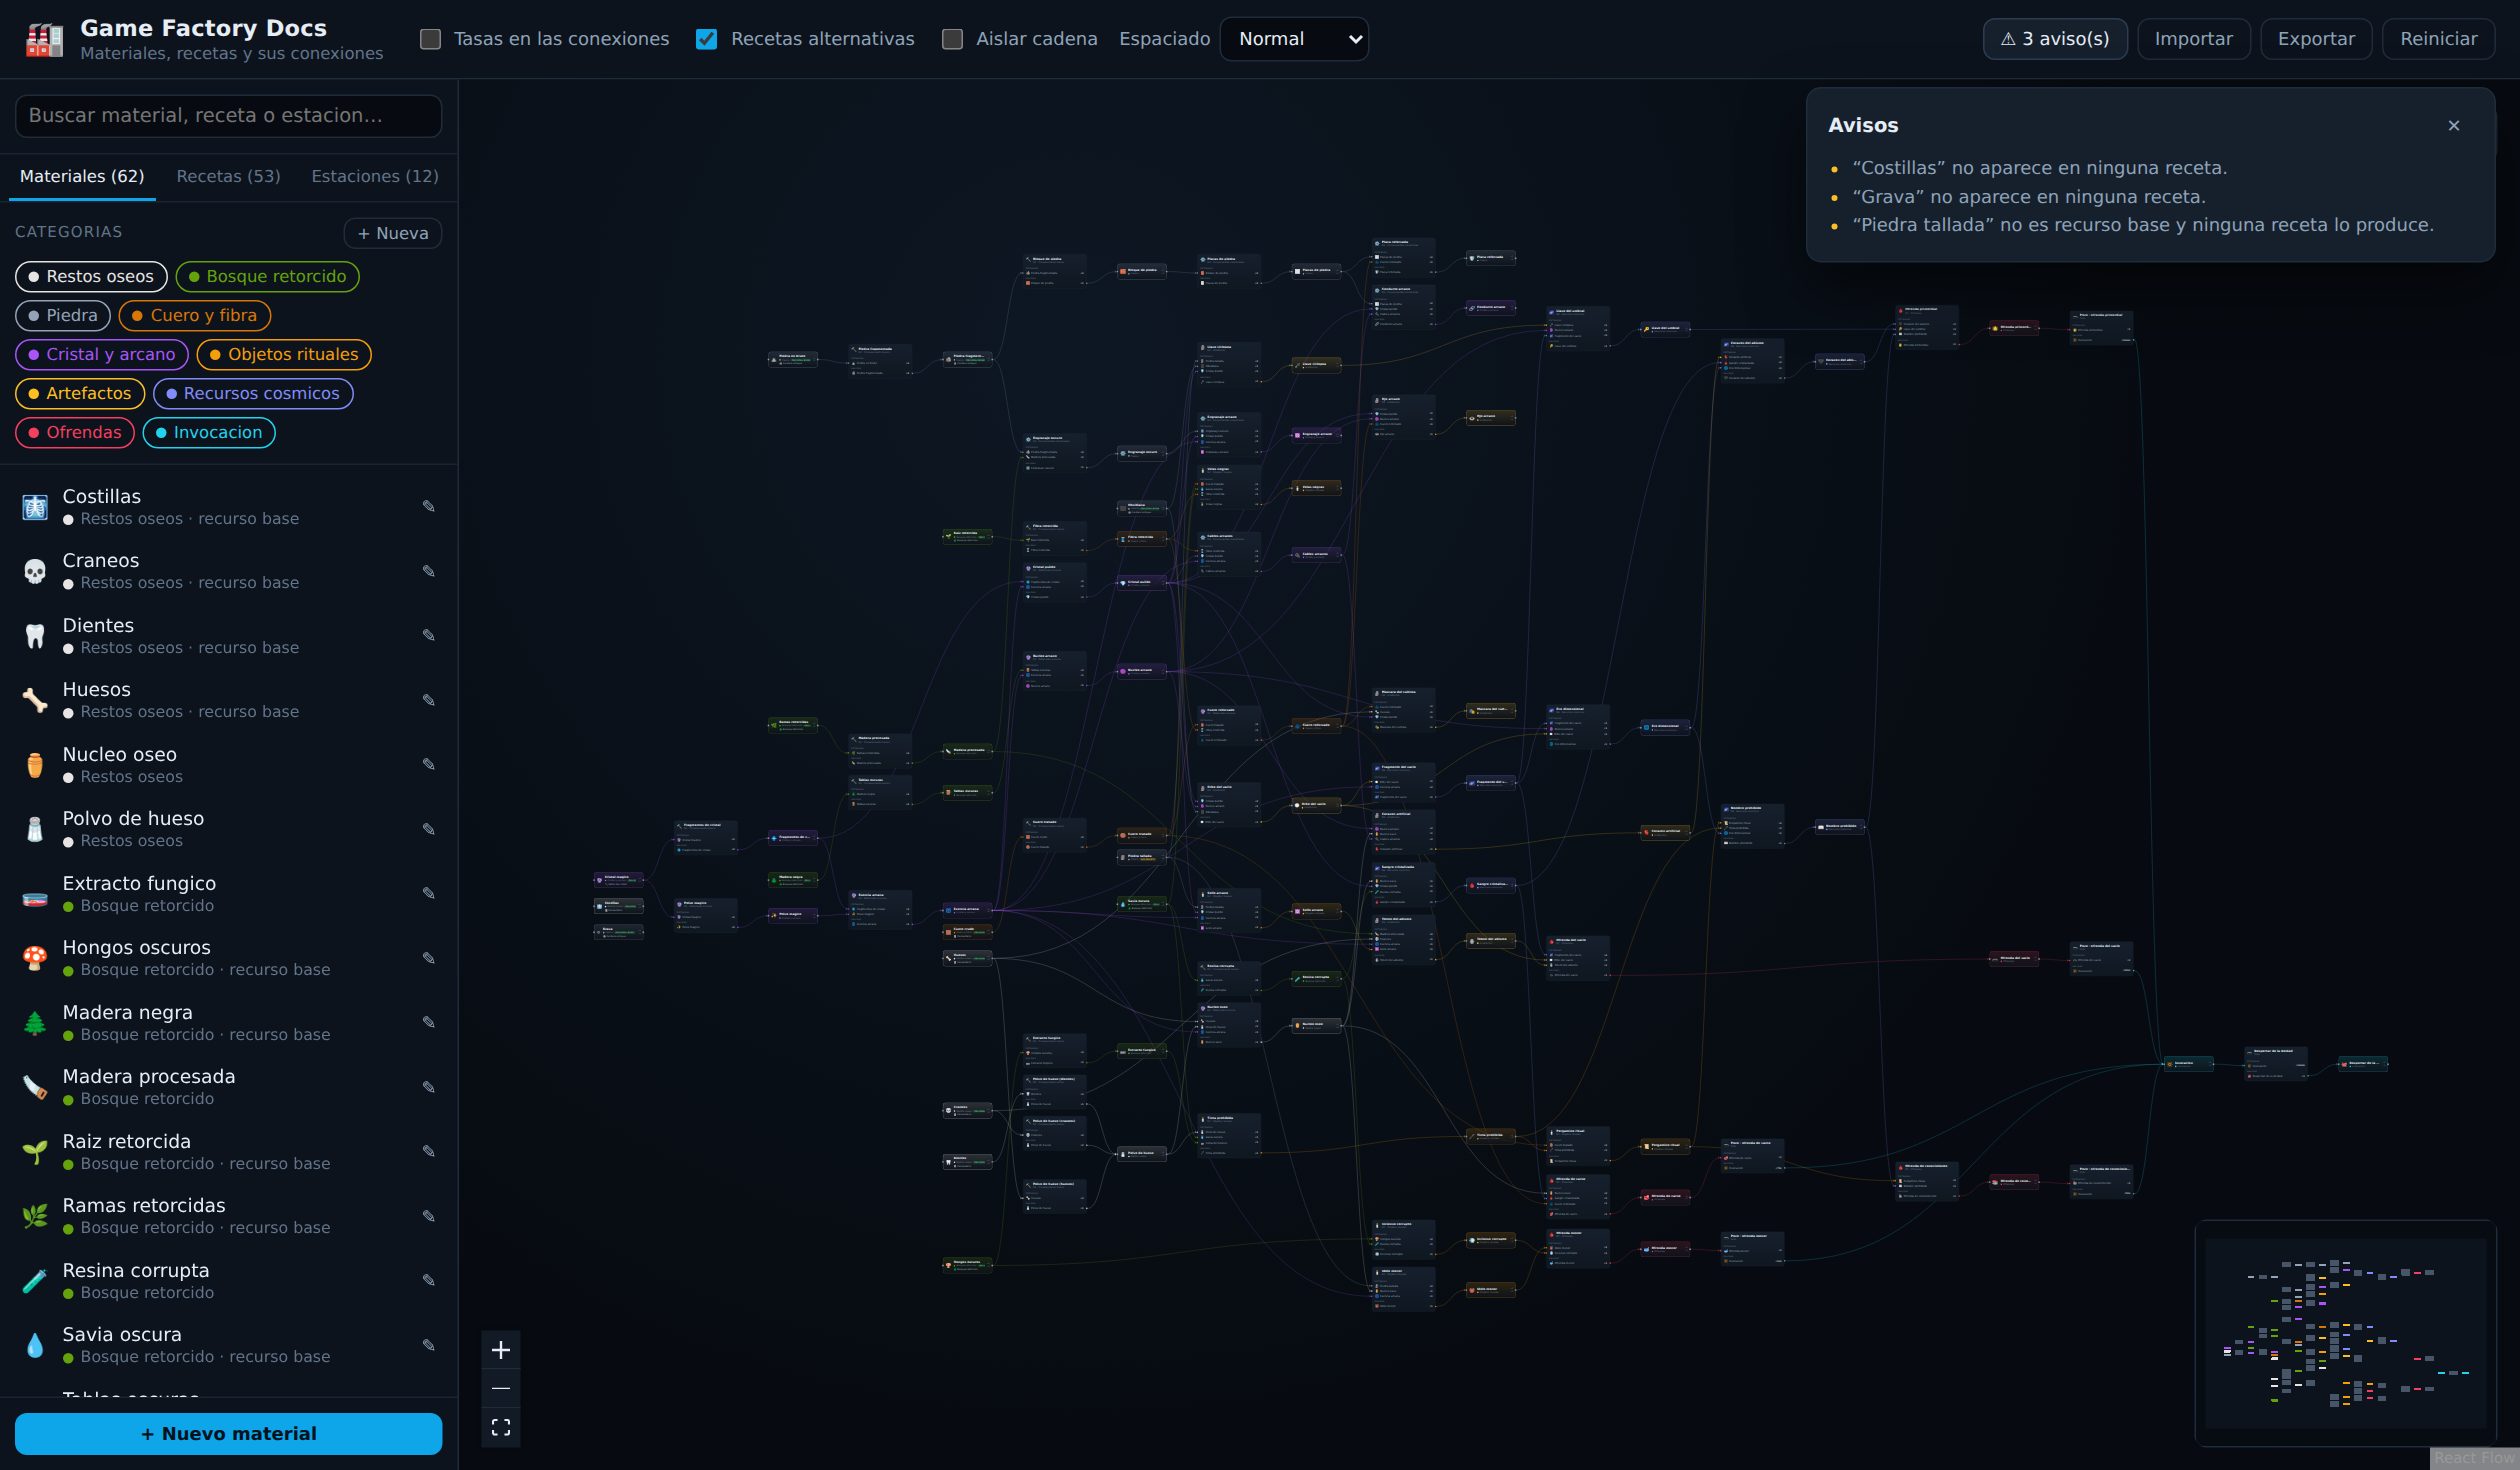
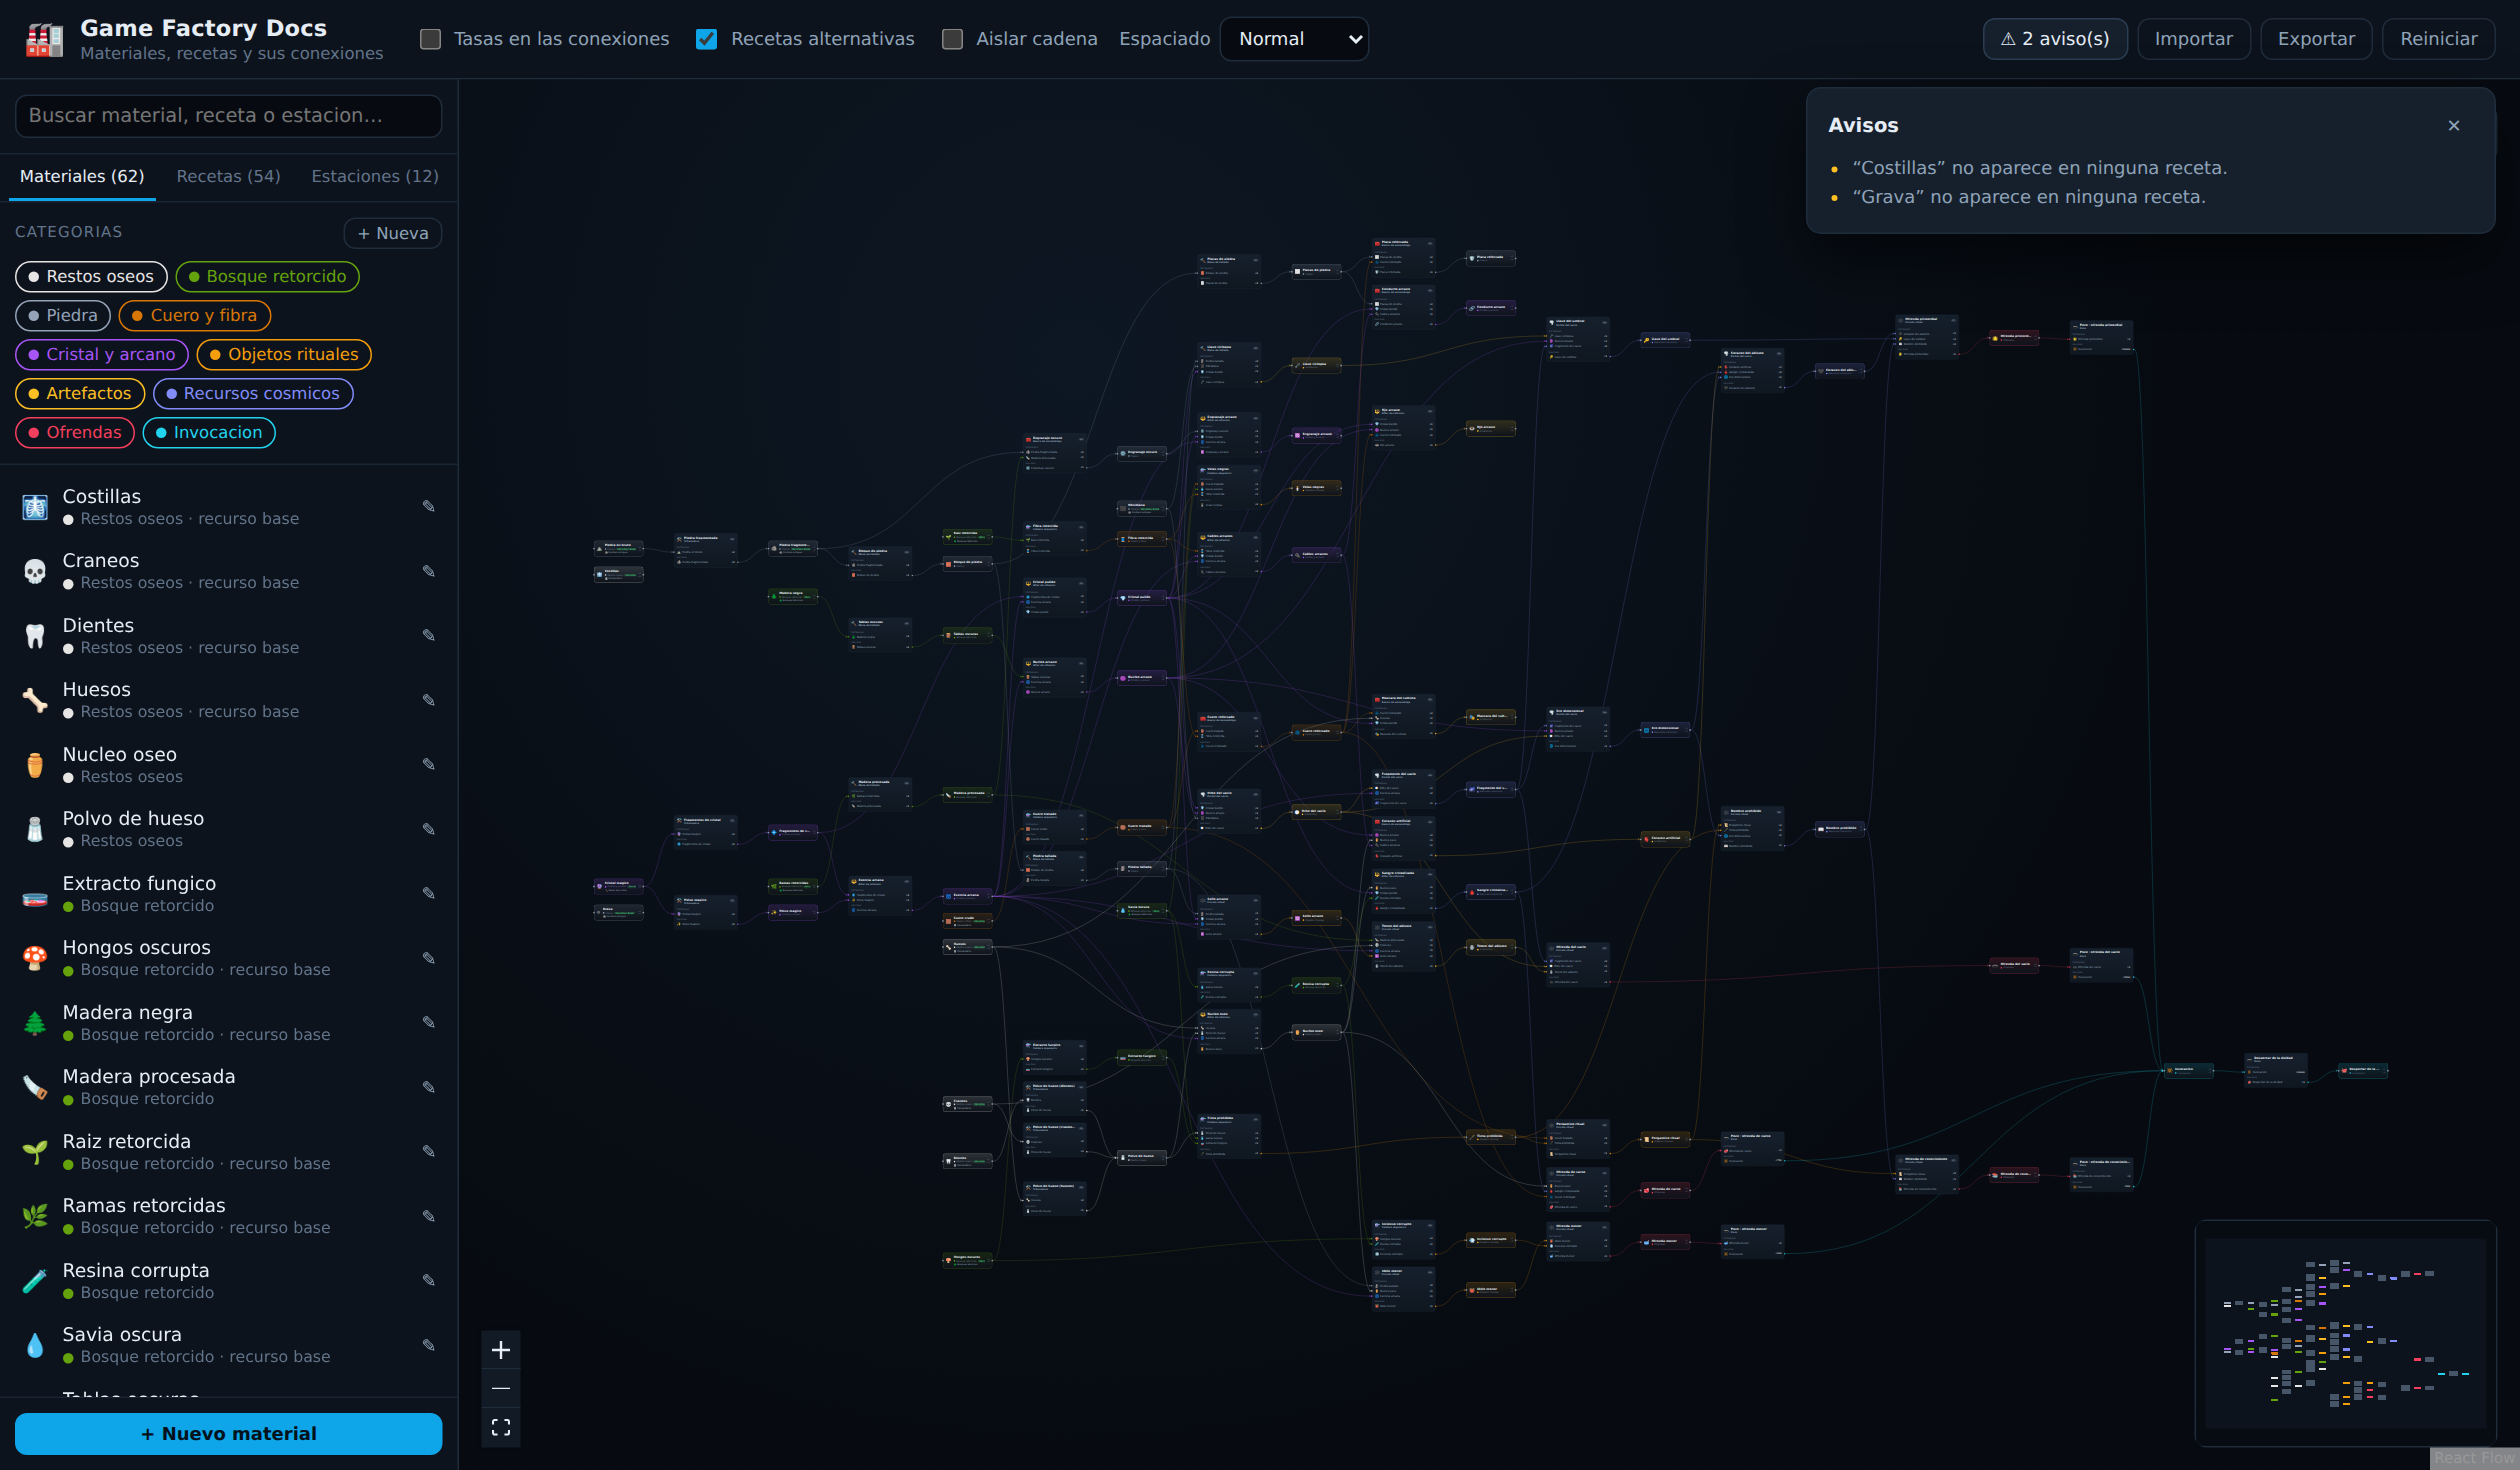
Anadir la receta de piedra tallada
Cierra el unico hueco estructural del arbol: la piedra tallada aparecia en
cuatro recetas -sello arcano, idolo menor y llave ciclopea- sin forma de
fabricarse ni figurar como recurso base.

Se talla en la mesa de tallado a partir de 2 bloques de piedra, el mismo patron
2 a 1 del bloque, y se situa en el nivel 3: encaja entre el bloque (N1) y sus
consumidores de N4 y N5.

Quedan dos avisos abiertos, ambos de la lista original: costillas y grava no se
usan todavia en ninguna receta.

Claude-Session: https://claude.ai/code/session_012Jz3edRPrwvVSgKWVJEjUy

diff --git a/src/data/seed.ts b/src/data/seed.ts
@@ -153,8 +153,7 @@ export const seedData: FactoryData = {
       name: 'Piedra tallada',
       icon: '🗿',
       categoryId: 'piedra',
-      description:
-        'Ojo: varias recetas de nivel 4 y 5 la piden, pero no hay receta que la produzca ni figura como recurso base.',
+      description: 'Base de los sellos, los idolos y la llave ciclopea.',
     },
 
     // === NIVEL 4 ===========================================================
@@ -389,6 +388,16 @@ export const seedData: FactoryData = {
       tier: 3,
       inputs: [{ materialId: 'bloque-piedra', amount: 2 }],
       outputs: [{ materialId: 'placas-piedra', amount: 3 }],
+    },
+    {
+      id: 'r-piedra-tallada',
+      name: 'Piedra tallada',
+      machineId: 'mesa-tallado',
+      tier: 3,
+      inputs: [{ materialId: 'bloque-piedra', amount: 2 }],
+      outputs: [{ materialId: 'piedra-tallada', amount: 1 }],
+      notes:
+        'Cierra el hueco de la lista original, donde la piedra tallada se usaba en cuatro recetas sin tener forma de fabricarse. Sigue el mismo patron 2 a 1 que el bloque de piedra.',
     },
     {
       id: 'r-placa-reforzada',

diff --git a/src/store/factoryStore.ts b/src/store/factoryStore.ts
@@ -252,13 +252,13 @@ export const useFactoryStore = create<FactoryState>()(
     }),
     {
       name: 'game-factory-docs:v1',
-      version: 3,
+      version: 4,
       // Solo el arbol de produccion sobrevive a la recarga; el estado de UI no.
       partialize: (state) => ({ data: state.data }),
-      // Las versiones anteriores guardaban otro arbol (v1) o el mismo sin
-      // maquinas asignadas (v2). Se descartan para que al abrir la pagina
-      // aparezca el arbol actual en lugar del anterior.
-      migrate: (persisted, version) => (version < 3 ? { data: freshSeed() } : persisted),
+      // Las versiones anteriores guardaban otro arbol (v1), el mismo sin
+      // maquinas asignadas (v2) o sin la receta de piedra tallada (v3). Se
+      // descartan para que al abrir la pagina aparezca el arbol actual.
+      migrate: (persisted, version) => (version < 4 ? { data: freshSeed() } : persisted),
       merge: (persisted, current) => {
         const saved = (persisted as { data?: unknown } | undefined)?.data;
         return { ...current, data: isFactoryData(saved) ? saved : current.data };

diff --git a/README.md b/README.md
@@ -30,9 +30,9 @@ los transforman y cómo se conectan entre sí.
 - **Importar / exportar JSON** para versionar el árbol en el repositorio o
   compartirlo.
 - **Avisos de consistencia**: materiales que ninguna receta produce, recetas sin
-  salida, referencias rotas, ciclos de 0 s. En el árbol actual señala tres
-  huecos reales: *Piedra tallada* la piden varias recetas pero nada la produce,
-  y *Costillas* y *Grava* no se usan todavía en ninguna receta.
+  salida, referencias rotas, ciclos de 0 s. Así salió a la luz que *Piedra
+  tallada* se usaba en cuatro recetas sin tener forma de fabricarse. Quedan dos
+  avisos abiertos: *Costillas* y *Grava* no se usan todavía en ninguna receta.
 
 ## Puesta en marcha
 
@@ -103,7 +103,7 @@ pozo:
 | **Yacimientos** | Vetas de cristal · Cementerio · Bosque retorcido · Cantera antigua |
 | **N1 Procesamiento básico** | tablas, bloques de piedra, polvo de hueso, cuero tratado, fibras |
 | **N2 Materiales arcanos** | esencia arcana, cristal pulido, núcleos arcano y óseo |
-| **N3 Componentes industriales** | engranajes, placas, cables y conductos arcanos |
+| **N3 Componentes industriales** | engranajes, placas, piedra tallada, cables y conductos arcanos |
 | **N4 Objetos rituales** | velas, incienso, tinta, pergaminos, sellos, ídolos |
 | **N5 Artefactos** | ojo arcano, corazón artificial, máscara, tótem, llave ciclópea, orbe |
 | **N6 Recursos cósmicos** | fragmento del vacío, sangre cristalizada, eco dimensional… |
@@ -120,7 +120,7 @@ máquina en la cabecera y el nivel como etiqueta `N1`…`N7`.
 | Máquina | Trabajo | Recetas |
 | --- | --- | ---: |
 | ⚒ Trituradora | moler y fragmentar: polvo de hueso, piedra, cristal | 6 |
-| 🔨 Mesa de tallado | cortar madera y piedra: tablas, bloques, placas, llave ciclópea | 5 |
+| 🔨 Mesa de tallado | cortar madera y piedra: tablas, bloques, placas, piedra tallada, llave ciclópea | 6 |
 | ⚗ Caldero alquímico | macerar y destilar: resinas, extractos, tintas, curtidos | 7 |
 | 🔱 Altar de infusión | infundir energía arcana: esencias, núcleos, cables | 8 |
 | 🧰 Banco de ensamblaje | montar piezas: engranajes, placas, corazón artificial | 6 |
